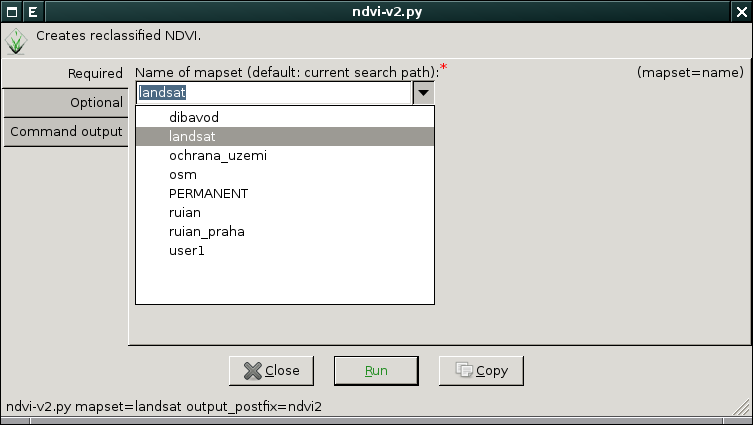
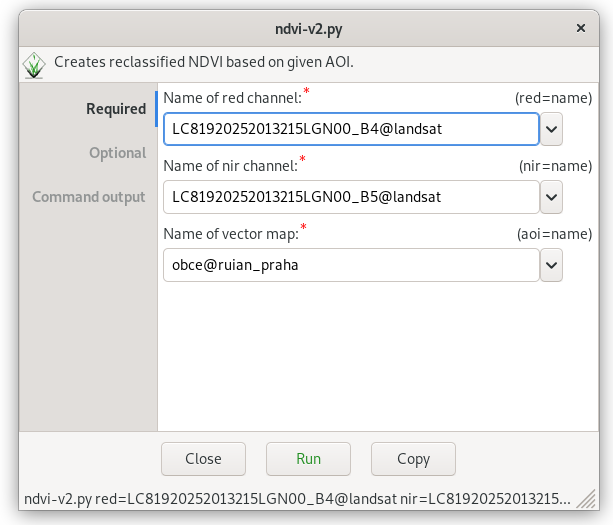
ndvi python v2

diff --git a/_static/skripty/ndvi-v2.py b/_static/skripty/ndvi-v2.py
@@ -88,7 +88,7 @@ def main():
     message('-' * 80)
     for line in report.outputs.stdout.splitlines():
         trida, popisek, procento = line.split(':')
-        message("Trida {}: {}".format(trida, procento))
+        print("Trida {}: {}".format(trida, procento))
     message('-' * 80)
         
     return 0

diff --git a/skripty/ndvi-python-v2.rst b/skripty/ndvi-python-v2.rst
@@ -1,23 +1,23 @@
-NDVI - Pokročilejší verze skriptu
+\NDVI - Pokročilejší verze skriptu
 ---------------------------------
 
 Pokročilejší verze skriptu je rozšířena o:
 
-* uživatelské rozhraní, řádky :lcode:`3-19`
-* vstupní parametry (:option:`mapset`, :option:`output_postfix` a
-  :option:`classes`), viz řádky :lcode:`6-19`
+* uživatelské rozhraní, řádky :lcode:`3-23`
+* vstupní parametry (:option:`red`, :option:`nir`, :option:`aoi` a
+  :option:`classes`), viz řádky :lcode:`6-23`
 * uživatelské rozhraní je zpracováno funkcí ``parse()`` (řádek
-  :lcode:`102`), která je součástí balíčku ``grass.script`` (řádek
-  :lcode:`24`)
-* hodnoty parametrů jsou na řádku :lcode:`102` uloženy do proměnné
+  :lcode:`97`), která je součástí balíčku ``grass.script`` (řádek
+  :lcode:`28`)
+* hodnoty parametrů jsou na řádku :lcode:`97` uloženy do proměnné
   ``options``, přepínače do proměnné ``flags``, ty jsou dále použity
-  na řádcích :lcode:`30-31,57`
-* celý kód je vložen do funkce ``main()`` (řádek :lcode:`29`)
+  na řádcích :lcode:`33-35,57,75`
+* celý kód je vložen do funkce ``main()`` (řádek :lcode:`32`)
     
 .. literalinclude:: ../_static/skripty/ndvi-v2.py
    :language: python
    :linenos:
-   :emphasize-lines: 3-19, 24, 29, 30-31, 57, 102
+   :emphasize-lines: 3-23, 28, 32, 33-35, 57, 75, 97
 
 Výsledná verze skriptu ke stažení `zde
 <../_static/skripty/ndvi-v2.py>`_.
@@ -37,29 +37,15 @@ Výsledná verze skriptu ke stažení `zde
 Poznámky k uživatelskému rozhraní
 ^^^^^^^^^^^^^^^^^^^^^^^^^^^^^^^^^
 
-Příklad parametru :option:`output_postfix`
-
-.. literalinclude:: ndvi-v2.py
-   :language: python
-   :lines: 10-15
-
-který definuje jeho
-
-* název (``key``)
-* popisek (``description``)
-* výchozí hodnotu (``answer``)
-* a typ parametru (``type``)
-
-U dalších parametrů jsou použity tzv. `standardizované volby
+Parametry jsou definovány pomocí tzv. `standardizovaných voleb
 <http://grass.osgeo.org/programming7/parser__standard__options_8c.html>`__,
-např. ``G_OPT_M_MAPSET`` definuje parametr pro volbu mapsetu. V našem
-případě nastavíme parametr skriptu jako povinný (``required: yes``) a
-doplníme výchozí volbu (mapset :mapset:`landsat`), viz
-:numref:`wxgui-ndvi-v2-0`.
+např. ``G_OPT_R_MAP`` definující parametr pro volbu rastrové mapy. V
+našem případě změníme potřebné vlastnosti (``key``, ``description``) a
+zvolíme výchozí hodnotu parametru pro snažší testování (``answer``).
 
 .. literalinclude:: ndvi-v2.py
    :language: python
-   :lines: 6-9
+   :lines: 6-10
 
 Ve výsledku se skript chová jako standardní modul systému GRASS,
 přepínačem :option:`--help` obdržíme informace o jeho syntaxi.
@@ -70,28 +56,20 @@ přepínačem :option:`--help` obdržíme informace o jeho syntaxi.
 
 ::
       
-    Description:
-     Creates reclassified NDVI.
-
+    Creates reclassified NDVI based on given AOI.
     Usage:
-     ndvi-v2.py mapset=name [output_postfix=string] [classes=name] [--help]
+     ndvi-v2.py red=name nir=name aoi=name [classes=name]
+    [--help]
        [--verbose] [--quiet] [--ui]
-
-    Flags:
-     --h   Print usage summary
-     --v   Verbose module output
-     --q   Quiet module output
-     --ui  Force launching GUI dialog
-
     Parameters:
-              mapset   Name of mapset (default: current search path)
-                        '.' for current mapset
-                       default: landsat
-      output_postfix   Postfix for output maps
-                       default: ndvi
-             classes   Name of input file
-        
-           
+          red   Name of red channel
+                default: LC81920252013215LGN00_B4@landsat
+          nir   Name of nir channel
+                default: LC81920252013215LGN00_B5@landsat
+          aoi   Name of vector map
+                default: obce@ruian_praha
+      classes   Name of input file
+  
 Poznámky k vypisování informačních zpráv
 ^^^^^^^^^^^^^^^^^^^^^^^^^^^^^^^^^^^^^^^^
 
@@ -100,13 +78,13 @@ funkcí ``message()`` z balíčku ``grass.script``.
 
 .. literalinclude:: ../_static/skripty/ndvi-v1.py
    :language: python
-   :lines: 27
+   :lines: 18
 
 přepsáno na
       
 .. literalinclude:: ../_static/skripty/ndvi-v2.py
    :language: python
-   :lines: 53
+   :lines: 48
 
 Díky tomu budou fungovat globální přepínače :option:`--quiet` a
 :option:`--verbose` pro tichý, resp. upovídaný mód.  Např. při použítí
@@ -115,32 +93,14 @@ zprávy o průběhu výpočtu budou skryty.
 
 .. code-block:: bash
 
-   ndvi-v2.py mapset=landsat --q
+   ndvi-v2.py red=LC81920252013215LGN00_B4@landsat nir=LC81920252013215LGN00_B5@landsat aoi=obce@ruian_praha --q
 
 ::
       
-    --------------------------------------------------------------------------------
-    Trida 1 (bez vegetace, vodni plochy  ):   0.28%
-    Trida 2 (plochy s minimalni vegetaci ):  30.24%
-    Trida 3 (plochy pokryte vegetaci     ):  21.00%
-    Trida * (no data                     ):  48.49%
-    --------------------------------------------------------------------------------
+   Trida 1: 1.30%
+   Trida 2: 72.33%
+   Trida 3: 26.37%
 
-Poznámky k hledání vstupních rastrových dat
-^^^^^^^^^^^^^^^^^^^^^^^^^^^^^^^^^^^^^^^^^^^
-
-Pro nalezení rastrových map končících na *B4* a *B5* použijeme funkci
-:pygrass-gis:`glist <Mapset.glist>` třídy :pygrass-gis:`Mapset`. Třída
-:pygrass-gis:`Mapset` je součástí balíčku ``pygrass.gis``.
-
-.. literalinclude:: ndvi-v2.py
-   :language: python
-   :lines: 27, 36-40
-
-.. note:: Blokem ``try/except`` zachytíme chybu v případě, že rastrové mapy
-          nebudou nalezeny. Potom zavoláme funkci ``fatal()`` z
-          knihovny ``grass.script``, která skript ukončí.
-      
 Poznámky ke spuštění modulu
 ^^^^^^^^^^^^^^^^^^^^^^^^^^^
 
@@ -151,28 +111,22 @@ podobné ostatním modulům systému GRASS.
         
    Vygenerovaný grafický dialog skriptu.
 
-.. note:: **Spuštění skriptu s parametrem classes**
+Mějme soubor `classes.txt` s odlišným rozdělením tříd:
 
-   Mějme soubor `classes.txt` s odlišným rozdělením tříd:
+.. literalinclude:: ../_static/skripty/classes.txt
 
-   .. literalinclude:: ../_static/skripty/classes.txt
+Soubor ke stažení `zde <../_static/skripty/classes.txt>`_.
 
-   Soubor ke stažení `zde <../_static/skripty/classes.txt>`_.
-   
    Spuštění skriptu bude vypadat následovně
-
-   .. code-block:: bash
-                
-      ndvi-v2.py map=landsat classes=classes.txt
-
-   s výsledkem:
-
-   ::
-      
-        --------------------------------------------------------------------------------
-        Trida 1 (bez vegetace, vodni plochy  ):   0.68%
-        Trida 2 (plochy s minimalni vegetaci ):  38.43%
-        Trida 3 (plochy pokryte vegetaci     ):  12.39%
-        Trida * (no data                     ):  48.49%
-       --------------------------------------------------------------------------------
    
+.. code-block:: bash
+   
+   ndvi-v2.py red=LC81920252013215LGN00_B4@landsat nir=LC81920252013215LGN00_B5@landsat aoi=obce@ruian_praha classes=classes.txt
+
+s výsledkem:
+
+::
+
+   Trida 1: 4.70%
+   Trida 2: 79.37%
+   Trida 3: 15.93%
